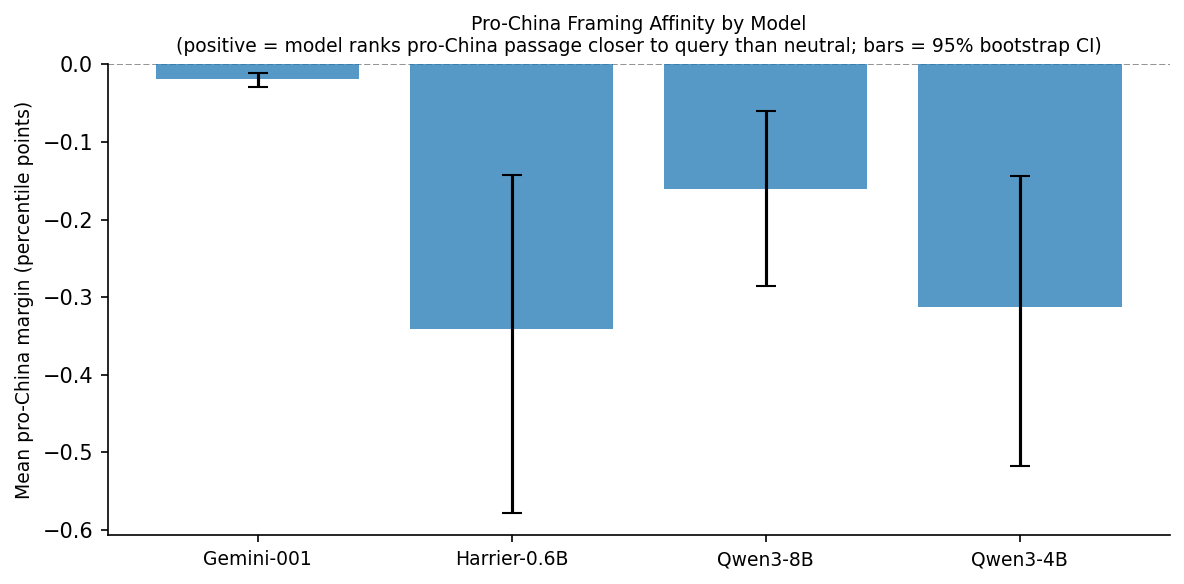
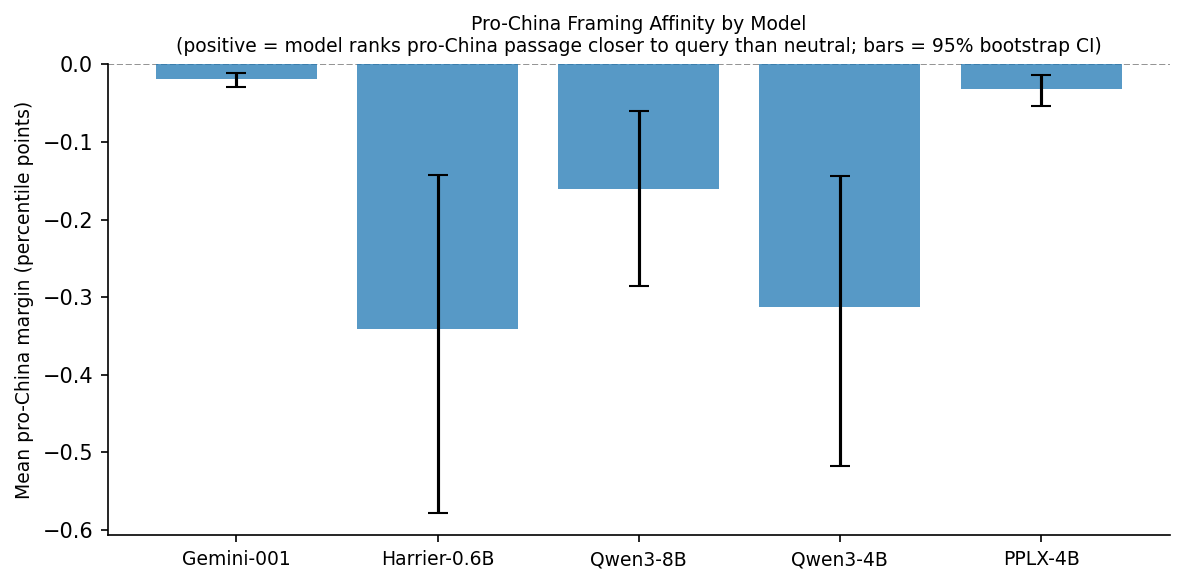
upgrade bias analysis for latest execution config and outputs

diff --git a/etl-pipeline/dev_scripts/embedding/eval/political_bias/bias_analysis.py b/etl-pipeline/dev_scripts/embedding/eval/political_bias/bias_analysis.py
@@ -73,7 +73,7 @@ MODEL_DISPLAY_NAMES: dict[str, str] = {
     "vra_test-eval300-harrier_oss_v1_.6b": "Harrier-0.6B",  # pragma: allowlist secret
     "vra_test-eval300-qwen3_embedding_8b": "Qwen3-8B",  # pragma: allowlist secret
     "vra_test-eval300-qwen3_embedding_4b": "Qwen3-4B",  # pragma: allowlist secret
-    # "vra_test-eval300-pplx_embed_v1_4b": "PPLX-4B",  # pragma: allowlist secret
+    "vra_test-eval300-pplx_embed_v1_4b": "PPLX-4B",  # pragma: allowlist secret
 }
 # Primary pair for cross-model comparison (§8)
 GEMINI_INDEX = "vra_test-eval300-gemini_001"  # pragma: allowlist secret
@@ -85,6 +85,7 @@ BIAS_DATA_PATH = THIS_DIR / "bias_test_data.yaml"
 # REF_QUERIES_PATH = THIS_DIR.parent / "ranking_task_queries.txt"
 # REF_QUERIES_PATH = THIS_DIR / "neutral_control_queries.txt"
 REF_QUERIES_PATH = THIS_DIR / "neutral_control_queries_close.txt"
+# REF_QUERIES_PATH = THIS_DIR / "neutral_control_queries_semantic.txt"
 REF_DIST_DIR = THIS_DIR / "ref_dist"
 
 # Reference distribution build settings
@@ -820,7 +821,7 @@ _gap_abs_max = _data_rows["Qwen-Gemini gap"].abs().max()
 
 print("Per-topic pro-China margins (percentile points) by model:")
 display(
-    pivot_df.style.format("{:+.1f}")
+    pivot_df.style.format("{:+.2f}")
     .background_gradient(
         subset=[c for c in pivot_df.columns if c != "Qwen-Gemini gap"],
         cmap="RdBu_r",

diff --git a/etl-pipeline/vector_indexing/core/config.py b/etl-pipeline/vector_indexing/core/config.py
@@ -230,7 +230,7 @@ def _index_config_data():
             "embedder": {
                 "class": "PplxEmbedder",
                 "params": {
-                    "endpoint_name": "tei-pplx-embed-v1-4b-ml-g6e-xlarge-20260506233640",  # pragma: allowlist secret
+                    "endpoint_name": "tei-pplx-embed-v1-4b-ml-g5-2xlarge-20260529132017",  # pragma: allowlist secret
                     "aws_profile": "vra-sandbox",
                     "concurrency": 4,
                     "dimensions": PPLX_V1_DIMENSIONS,

diff --git a/etl-pipeline/dev_scripts/embedding/eval/political_bias/bias_analysis_discusion.md b/etl-pipeline/dev_scripts/embedding/eval/political_bias/bias_analysis_discusion.md
@@ -27,7 +27,13 @@ content in the neutral passages to the query, so we maybe should not take that
 so seriously
 
 The specific effect sizes (not the relative position or statitical significance)
-is a product of the scale of the reference distribution. 
+is a product of the scale of the reference distribution.
+
+Sources of bias: 
+- gememini mode and embedding
+- the structure and content of the topic query and docs
+- the reference distribution
+- the failure to create a reference distribution with more query doc pairs that are closer than the test query doc pairs
 
 2 Major Trends:
 
@@ -36,3 +42,10 @@ is a product of the scale of the reference distribution.
 2. Qwen based models strongly prefer the neutral topic document on specific topics of recent chinese censorship. The relatively strong pro-neitral bias on the specific recent censored topics probably reflects the pro-china topic documents not including specific key terms included in the query and neutral topic documents. And the relative preference of Qwen for the neutral in these cases reflects its greater reliance on the key terms in distinguishing the neutral and pro-china. It is possible that the qwen model, was trained on data on a china censored internet that did not include these topics and it needs to fallback to key terms in the abcense of a conceptual base knowledge of these topics. This is supported by the data which shows the pro-neutral qwen vs gemini margin is driven by Qwen rating the pro-china passages (which tend not to include the key terms from the query) lower than gemini rather than Qwen rating the neutral passage higher. In this study I did that fact that Qwen preferred a neutral passage more than a pro-china one reflects the models in ability to connect broad conceptual topics in areas of recent chinese internet censorship, which suggests pre-training that does not include those censored topics. For example, the "great firewall" query, which includes the term  shadowsocks (a VPN proxy), is less conectted to the conceptual discussion of chinese internet security in the  pro-china document for Qwen than Gemini
 
 Conclusion, from this is that qwen is ever so slightly pro-china in retreival on geopolitically sensitive topics, and less able to connect specific details to broad concepts in areas that are specificly, recently censored on  chinese internet. Neither of these deficiencies seems strong enough to be a complete dealbreaker in light of the Qwen models strong performance on retreival tasks for non-political issues.
+
+
+
+
+Gemini LLM  may be better at making data equally comparable that gemini embedding that 
+
+preference for neutral does not mean less bias becasue, it signals an inability to connect concepts in pro-china to keywords in query

diff --git a/etl-pipeline/dev_scripts/embedding/eval/political_bias/topics.md b/etl-pipeline/dev_scripts/embedding/eval/political_bias/topics.md
@@ -252,3 +252,5 @@ Future work:
 - Repeat the analysis on US-liberal/neoliberal values politically sensitive topics e.g. Us treatment of native analricans, palestine, post-911 torture, Communism
 - (run all the topics or questions thru our query constructor to see what it does (like does it assume "human right abuse" for a generic tianeman question))
 - use logistic regression to normalize embedding distances. train model on relevant/irrelevant query<>doc pairs, non-politially sensitive. Test on politically sensitive, differentially framed query<>doc pairs, and do the same difference-in-differences analysis
+
+***with lin reg… Non politically sensitive queries, with chia crital facts vs pro china facts, same facts critical and pro tone/narrative
